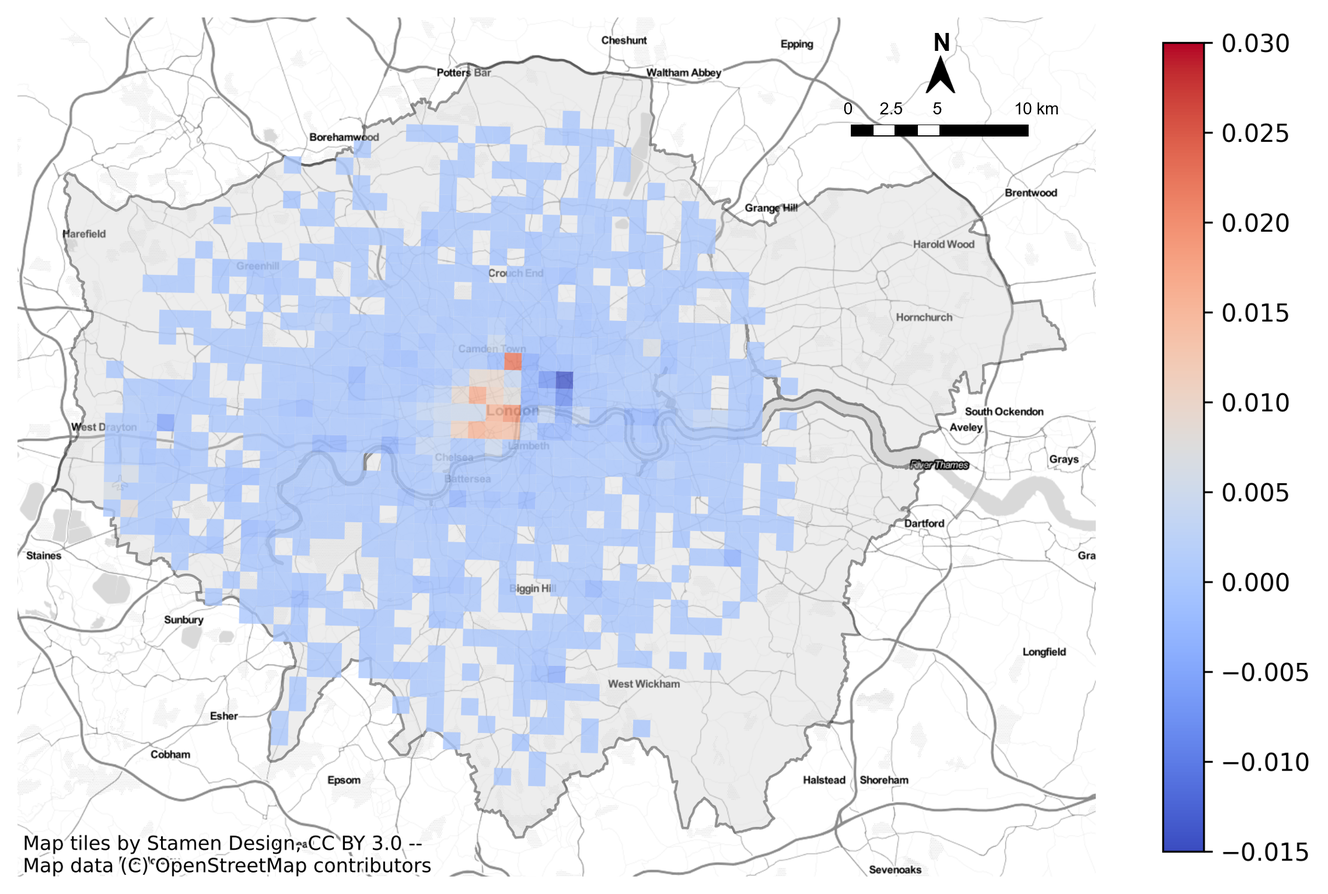
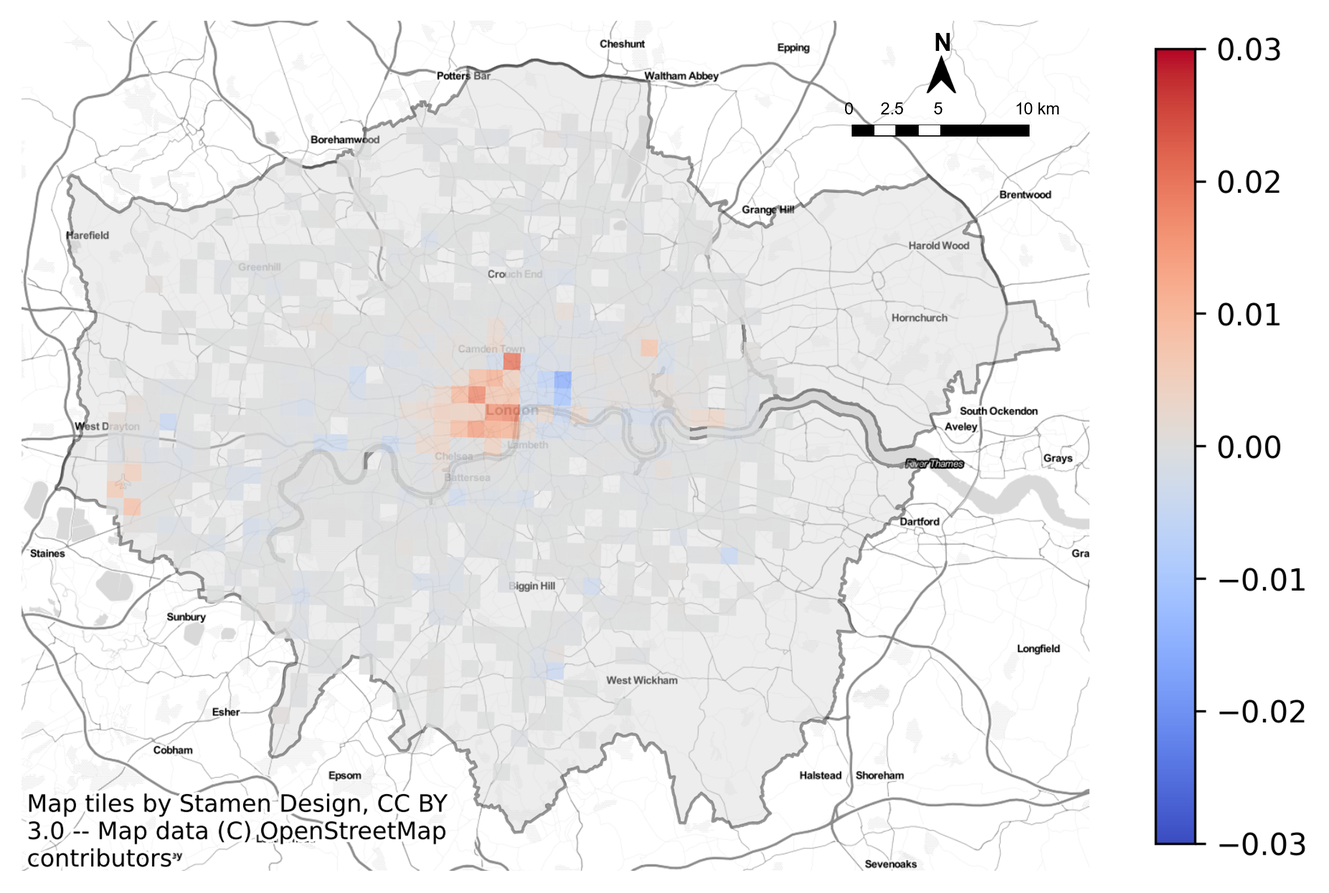
Updates from Overleaf

diff --git a/main.tex b/main.tex
@@ -55,6 +55,7 @@
 \newacronym{lbs}{LBS}{Location-based services}
 \newacronym{aoi}{AOI}{Areas of Interest}
 \newacronym{dbscan}{DBSCAN}{Density-Based Spatial Clustering of Applications with Noise}
+\newacronym{hdbscan}{HDBSCAN}{Hierarchical Density-Based Spatial Clustering of Applications with Noise}
 \newacronym{tfidf}{TF-IDF}{Term Frequency-Inverse Document Frequency}
 \newacronym{gps}{GPS}{Global Positioning System}
 \newacronym{kde}{KDE}{Kernel Density Estimation}
@@ -534,18 +535,18 @@ where $t_{i}$ represents the number of tourists' check-ins in the raster $i$, an
 
 % ====================== | Place Construction | ======================
 \subsubsection{Place Construction}
+A place is a segment of geographical space that holds meanings, and a check-in is a specific instance or event that represents an individual's interaction with a place. This study constructed places by clustering check-ins. The \acrfull{hdbscan} developed by \cite{campello_density-based_2013} was utilized as the clustering algorithm in this study. It is a hierarchical extension of \acrshort{dbscan} that automatically determines the optimal number of clusters and can handle clusters of varying densities. The features used in the clustering included the coordinates and categories of check-ins. The coordinates of check-ins were converted to EPSG:27700, a projected coordinate system for United Kingdom, and then standardized by the StandardScaler to unit variance. The categories of check-ins were converted into numerical values with the label encoding. The distance matrix was precomputed by the Gower distance before \acrshort{hdbscan}. The Gower distance is able to  measure the dissimilarity of two items with mixed numeric and non-numeric data. The feature importance was also considered in the distance matrix, with x and y coordinates weighting 0.8 in total, and categories weighting 0.2. In the application of \acrshort{hdbscan}, the minimum number of check-ins within the cluster was set as 3, meaning that one place should contain at least three check-ins. The \acrshort{hdbscan} labeled each check-in to assign it to the correponding cluster. Check-ins labeled as -1 were considered as outliers, which were removed in this study. The place should cover a certain area rather than merely a point. Thus with check-ins clustered as places, this study built convex hulls for these clusters to represent place areas.
 
-\underline{introduce dbscan}
+\underline{equations for hdbscan and gower distance}
 
-why cluster check-ins
-\underline{definition of place, which will be used to explain why places are clusters of check-ins instead of merely check-ins}
 
-\underline{refer to notes in logbooks!!!!}
 
 \underline{pseudocode}
 
-
-
+1. definition of place, which will be used to explain why places are clusters of check-ins instead of merely check-ins
+2. cluster check-ins with hdbscan
+3. construct the convex hull for check-ins within the same cluster to represent the place
+4. place dimensions: location (borough name), locale (category), sense of place (move on to the next section Topic Modeling)
 % Place Dimensions
 
 \underline{add a table of place dimensions, refer to table 6 in \cite{ferrero_mastermovelets_2020}}
@@ -661,15 +662,13 @@ https://www.tandfonline.com/doi/full/10.1080/15481603.2021.1908927}
 % ============================= || Spatiotemporal Patterns of Hotspots || =============================
 \subsection{Spatiotemporal Patterns of Hotspots}
 
-To investigate the popularity of different areas among both locals and tourists at various times, Foursquare check-ins were utilized to detect spatiotemporal hotspots. Figure~\ref{fig:foursquare_checkins_count} and Figure~\ref{fig:foursquare_checkins_trend} reveal the number and temporal pattern of check-ins. It was observed that locals exhibited higher activity levels compared to tourists, generating a greater number of check-ins throughout different time periods. Notably, daytime check-ins outnumbered nighttime check-ins. Analyzing the temporal pattern, locals displayed three prominent spikes in check-ins during the daytime, specifically at 8 am, 12 pm, and 6 pm. Conversely, their activity diminished during the nighttime, particularly at midnight. On the other hand, tourists were more active at 12 pm during the daytime but showed reduced activity after 6 pm. Furthermore, weekdays experienced a higher number of check-ins compared to weekends. Locals exhibited a consistent sharing pattern from Monday to Thursday, with a notable spike on Fridays. Conversely, during weekendss, locals shared significantly fewer check-ins. Tourists displayed a similar pattern from Monday to Thursday but exhibited increased activity on Fridays and Saturdays, followed by fewer check-ins on Sundays.
-
+To investigate the popularity of different areas among locals and tourists at various times, Foursquare check-ins were utilized to detect spatiotemporal hotspots. Figure~\ref{fig:foursquare_checkins_count} and Figure~\ref{fig:foursquare_checkins_trend} reveal the number and temporal pattern of check-ins. Locals exhibit higher activity levels compared to tourists, generating a greater number of check-ins throughout different time periods. Notably, daytime check-ins outnumber nighttime check-ins. Analyzing the temporal pattern, locals display three prominent spikes in check-ins during the daytime, specifically at 8 am, 12 pm, and 6 pm. Conversely, their activities diminish during the nighttime, particularly at midnight. On the other hand, tourists are more active at 12 pm during the daytime but show reduced activity after 6 pm. Furthermore, weekdays experience a higher number of check-ins compared to weekends. Locals exhibit a consistent sharing pattern from Monday to Thursday, with a notable spike on Fridays. Conversely, during weekends, locals share significantly fewer check-ins. Tourists display a similar pattern from Monday to Thursday but exhibit increased activities on Fridays and Saturdays, followed by fewer check-ins on Sundays.
 
 \begin{figure}[!h]
 \centering
 \includegraphics[width=0.75\textwidth]{figures/foursquare_checkins_count.png}
 \caption{\label{fig:foursquare_checkins_count}Number of Foursquare check-ins of locals and tourists across time spans.}
 \end{figure}
-
 
 \begin{figure}[!h]
 
@@ -694,7 +693,7 @@ To investigate the popularity of different areas among both locals and tourists 
 % ============== Daytime vs. Nighttime ==============
 \subsubsubsection{Daytime vs. Nighttime}
 % daytime
-Figure~\ref{fig:kde_daytime} illustrates the estimated distribution of Foursquare check-ins during the daytime using \acrshort{kde}. Despite generating fewer check-ins compared to locals, tourists exhibit similar hotspot distribution patterns. The city center, specifically the vicinity surrounding the junction of Westminster, Camden, and the City of London, emerges as a highly popular area among both locals and tourists. These boroughs contain an abundance of cultural and historical landmarks, including the Tower of London, Westminster Abbey, and St. Paul's Cathedral. Moreover, the high transport connectivity of these boroughs enhances their attractiveness. Major train stations, including Waterloo Station and King's Cross St. Pancras, provide convenient access to and from different areas of London. As a result, a significant number of individuals are drawn to these boroughs, leading to a substantial influx of people. Another notable hotspot is situated around Stratford in Newham borough, primarily due to the Stratford Shopping Centre, which appeals to individuals who enjoy shopping. Additionally, the southern region of Hillingdon, where Heathrow Airport is located, is another hotspot where people share a large number of check-ins. Furthermore, the boundary of Richmond upon Thames and Kingston upon Thames reveals an aggregation of check-ins, and these boroughs contain thriving communities with a blend of history and natural beauty. One notable difference between locals and tourists is the presence of work-related hotspots for locals. The City of London, in particular, serves as a major business hub, with numerous corporate headquarters attracting locals for employment purposes. Similarly, Canary Wharf, located near the Isle of Dogs within the Tower Hamlets borough, represents another hotspot for locals due to its status as part of London's central business district, drawing a large number of professionals. Moreover, boroughs located on the outskirts of London, such as Croydon, Merton, Bromley, Brent, and Harrow, form smaller yet noteworthy hotspots. These areas are characterized by their residential settlement and exhibit a greater concentration of locals compared to tourists.
+Figure~\ref{fig:kde_daytime} illustrates the estimated distribution of Foursquare check-ins during the daytime using \acrshort{kde}. Despite generating fewer check-ins compared to locals, tourists exhibit similar hotspot distribution patterns. The city center, specifically the vicinity surrounding the junction of Westminster, Camden, and the City of London, emerges as a highly popular area among both locals and tourists. These boroughs contain an abundance of cultural and historical landmarks, including the Tower of London, Westminster Abbey, and St. Paul's Cathedral. Moreover, the high transport connectivity of these boroughs enhances their attractiveness. Major train stations, including Waterloo Station and King's Cross St. Pancras, provide convenient access to and from different areas of London. As a result, a significant number of individuals are drawn to these boroughs, leading to a substantial influx of people. Another notable hotspot is situated around Stratford in Newham borough, where the Stratford Shopping Centre is located, which appeals to individuals who enjoy shopping. Additionally, the southern region of Hillingdon, where Heathrow Airport is located, is another hotspot where people share a large number of check-ins. Furthermore, the boundary of Richmond upon Thames and Kingston upon Thames reveals an aggregation of check-ins, and these boroughs contain thriving communities with a blend of history and natural beauty. One notable difference between locals and tourists is the presence of work-related hotspots for locals. The City of London, in particular, serves as a major business hub, with numerous corporate headquarters attracting locals for employment purposes. Similarly, Canary Wharf, located near the Isle of Dogs within the Tower Hamlets borough, represents another hotspot for locals due to its status as part of London's central business district, drawing a large number of professionals. Moreover, boroughs located on the outskirts of London, such as Croydon, Merton, Bromley, Brent, and Harrow, form smaller yet noteworthy hotspots. These areas are characterized by their residential settlement and exhibit a greater concentration of locals compared to tourists.
 
 
 \begin{figure}[!h]
@@ -714,7 +713,7 @@ Figure~\ref{fig:kde_daytime} illustrates the estimated distribution of Foursquar
 \end{figure}
 
 % nighttime & comparison
-The city center still serves as the primary hotspot for both locals and tourists during the nighttime, as shown in Figure~\ref{fig:kde_nighttime}. In addition to its cultural and historical attractions, the city center also offers abundant shopping and entertainment options, including renowned areas such as Oxford Street and Regent Street, which provide vibrant nightlife scenes. For locals, the concentration of check-ins in the city center during the nighttime is lower compared to daytime. Furthermore, the hotspot around Canary Wharf, a bustling business district, diminishes, indicating a reduced number of locals visiting this area during the nighttime. However, the hotspots in Heathrow Airport and boroughs on the outskirts of London, such as Croydon, Bromley, and Harrow, remain prominent. This suggests that these areas are aggregated with a significant number of locals, possibly due to air transport activities ad residential settlements. In terms of locals, although the primary hotspot remains in the city center, the concentration of check-ins in this area decreases during the nighttime. Moreover, there is a reduction or disappearance of hotspots in the suburban areas, indicating a decrease in the number of tourists visiting these regions during the nighttime. However, the hotspot around Heathrow Airport remains stable, suggesting that a certain number of tourists still visit the airport during the nighttime.
+During the nighttime, the city center still serves as the primary hotspot for both locals and tourists, as shown in Figure~\ref{fig:kde_nighttime}. In addition to its cultural and historical attractions, the city center also offers abundant shopping and entertainment options, including renowned areas such as Oxford Street and Regent Street, which provide vibrant nightlife scenes. For locals, the concentration of check-ins in the city center during the nighttime is lower compared to the daytime. Furthermore, the hotspot around Canary Wharf, a bustling business district, diminishes, indicating a reduced number of locals visiting this area during the nighttime. However, the hotspots in Heathrow Airport and boroughs on the outskirts of London, such as Croydon, Bromley, and Harrow, remain prominent. This suggests that these areas are aggregated with a significant number of locals, possibly due to air transport activities ad residential settlements. In terms of locals, although the primary hotspot remains in the city center, the concentration of check-ins in this area decreases during the nighttime. Moreover, there is a reduction or disappearance of hotspots in the suburban areas, indicating a decrease in the number of tourists visiting these regions during the nighttime. However, the hotspot around Heathrow Airport remains stable, suggesting that a certain number of tourists still visit the airport during the nighttime.
 
 
 \begin{figure}[!h]
@@ -737,7 +736,7 @@ The city center still serves as the primary hotspot for both locals and tourists
 % ============== Weekday vs. Weekend ==============
 \subsubsubsection{Weekday vs. Weekend}
 % weekday
-Figure~\ref{fig:kde_weekday} reveals that both locals and tourists have distinct primary hotspots in the city center during weekdays, though with differences in their spatial distribution. These two hotspots encompass the area surrounding the junction of Westminster, Camden, and the City of London, but locals exhibit a distinct concentration in the eastern part, with a notable emphasis on the City of London. The City of London serves as a prominent financial district. And the presence of iconic structures such as 30 St Mary Axe and Canary Wharf further reinforces the City of London's status as an important hub for corporate offices, attracting individuals for weekday work engagements. Consistent with the hotspot distribution observed during the daytime, locals also visit Heathrow Airport in the southern region of Hillingdon and various outskirt boroughs such as Croydon, Merton, Bromley, Harrow, Richmond upon Thames, and Kingston upon Thames. In contrast, tourists' primary hotspot in the city center gravitates towards the vicinity of Westminster and Camden, which contain numerous tourist attractions, shopping destinations, and entertainment venues. Notably, tourists are less active in the outer regions of London, indicating a relatively lower level of engagement in these areas. Among the outskirt boroughs, Hillingdon, where Heathrow Airport is located, gains more popularity among tourists compared to other areas.
+Figure~\ref{fig:kde_weekday} illustrates the distinct primary hotspots of locals and tourists in the city center during weekdays, though with differences in their spatial distribution. Both groups continue to gravitate towards the area surrounding the junction of Westminster, Camden, and the City of London. However, locals exhibit a relatively lower concentration of check-ins in this area compared to tourists. The City of London, with its prominent financial district and iconic structures such as 30 St Mary Axe and Canary Wharf, serves as an important hub for weekday work engagements, attracting locals to this area. Consistent with the hotspot distribution observed during the daytime, locals also visit Heathrow Airport in the southern region of Hillingdon and various outskirt boroughs such as Croydon, Merton, Bromley, Harrow, Richmond upon Thames, and Kingston upon Thames. In contrast, tourists' primary hotspot in the city center gravitates towards the vicinity of Westminster and Camden during weekdays. These areas contain numerous tourist attractions, shopping destinations, and entertainment venues, making them highly appealing to tourists. Notably, tourists are less active in the outer regions of London during weekdays, indicating a relatively lower level of engagement in these areas. Among the outskirt boroughs, Hillingdon, where Heathrow Airport is located, gains more popularity among tourists compared to other areas.
 
 
 \begin{figure}[!h]
@@ -757,8 +756,7 @@ Figure~\ref{fig:kde_weekday} reveals that both locals and tourists have distinct
 \end{figure}
 
 % weekend & comparison
-Figure~\ref{fig:kde_weekend} shows the estimated distribution of Foursquare check-ins made by locals and tourists during weekends. The city center continues to serve as the primary hotspot for both groups. However, the concentration of check-ins by locals in this area is relatively lower compared to tourists. Additionally, hotspots around Stratford in Newham and Heathrow Airport in Hillingdon are evident for both locals and tourists. during weekends, locals display a scattered pattern across the outskirts of London, with a decrease in activity density within the city center. Conversely, tourists share fewer check-ins in the outer boroughs and are more concentrated in the city center. In comparison to the weekday hotspots, both locals and tourists share fewer check-ins during weekends. Locals demonstrate greater activity in the outskirt boroughs, while tourists tend to concentrate their activities within the inner part of London.
-
+During weekends, Figure~\ref{fig:kde_weekend} also shows the scattered pattern of check-ins by locals across the outskirts of London, with a decrease in activity density within the city center. Conversely, tourists concentrate their activities within the inner part of London, sharing fewer check-ins in the outer boroughs. Compared to the weekday hotspots, both locals and tourists exhibit a decrease in check-in density during weekends. Locals demonstrate greater activity in the outskirt boroughs, while tourists focus their attention on the city center.
 
 \begin{figure}[!h]
 
@@ -783,12 +781,10 @@ Figure~\ref{fig:kde_weekend} shows the estimated distribution of Foursquare chec
 % ============== Daytime vs. Nighttime ==============
 \subsubsubsection{Daytime vs. Nighttime}
 % daytime
-The difference ratio quantifies the mixture degree of locals and tourists within each raster. A higher difference ratio indicates a higher proportion of tourists, while a lower difference ratio suggests a higher concentration of locals. Figure~\ref{fig:raster_diff_daytime} illustrates the difference ratios between locals and tourists during the daytime. Most areas receive similar popularity from locals and tourists, but the city center demonstrates distinct distribution patterns of these two groups of people. Tourists tend to cluster around Westminster, Camden, and the City of London, while locals are more concentrated in the eastern region. These findings align with the observations in Section \ref{hotspots}. Heathrow Airport also emerges as a hotspot with a higher activity density of tourists, as reflected by the positive difference ratios in certain rasters. The category distribution of check-ins within rasters with significant difference ratios (greater than 0.01 or less than -0.01) during the daytime is represented in Figure~\ref{fig:diff_pop_category_daytime}. Tourists demonstrate a preference for restaurants, transportation, and shopping places, while locals show a higher inclination towards professional places, restaurants, and entertainment places. For more detailed information, refer to Table~\ref{tab:popular_venues_touristspop_daytime} and Table~\ref{tab:popular_venues_localspop_daytime} in Appendix \ref{appendix}, which highlight the top 10 popular venues within rasters wit notable difference ratios during the daytime. In areas with a higher density of tourists, notable venues include transportation hubs like London King's Cross Railway Station, luxury department stores like Harrods, and prominent public squares such as Picadilly Circus and Trafalgar Square. Conversely, in areas with a higher density of locals, professional venues like Google Campus - London and other companies, as well as restaurants around Shoreditch, are more popular.
+The difference ratio provides a measure of the composition of locals and tourists within each raster. A higher difference ratio indicates a larger proportion of tourists, while a lower difference ratio suggests a higher concentration of locals. Figure~\ref{fig:raster_diff_daytime} illustrates the difference ratios between locals and tourists during the daytime. While most areas receive similar popularity from both groups, the city center exhibits distinct distribution patterns for locals and tourists. Tourists tend to cluster around Westminster, Camden, and the City of London, while locals are more concentrated in the eastern region. These findings align with the observations in Section \ref{hotspots}. Heathrow Airport also emerges as a hotspot with a higher activity density of tourists, as reflected by positive difference ratios in certain rasters. The category distribution of check-ins within rasters with significant difference ratios (greater than 0.01 or less than -0.01) during the daytime is represented in Figure~\ref{fig:diff_pop_category_daytime}. Tourists demonstrate a preference for restaurants, transportation, and shopping places, while locals show a higher inclination towards professional places, restaurants, and entertainment places. For more detailed information, please refer to Table~\ref{tab:popular_venues_touristspop_daytime} and Table~\ref{tab:popular_venues_localspop_daytime} in Appendix \ref{appendix}, which highlight the top 10 popular venues within rasters with notable difference ratios during the daytime. In areas with a higher density of tourists, notable venues include transportation hubs like London King's Cross Railway Station, luxury department stores like Harrods, and prominent public squares such as Picadilly Circus and Trafalgar Square. Conversely, in areas with a higher density of locals, professional venues like Google Campus - London and other companies, as well as restaurants around Shoreditch, are more popular.
 
 % nighttime & comparison
-Figure~\ref{fig:raster_diff_nighttime} represents the difference ratios between locals and tourists during the nighttime. The city center, especially Westminster, becomes increasingly popular among tourists, while the area around the City of London shows a balanced number of locals and tourists, indicating reduced activities of locals during the nighttime. Table~\ref{tab:diff_pop_category_nighttime} reveals that tourists exhibit a heightened interest in entertainment places during the nighttime, while maintaining their preference for restaurants and transportation. Locals, on the other hand, shift their focus from professional places to entertainment places and still show interest in restaurants. Notably, popular nighttime venues for both locals and tourists include nightclubs and pubs, alongside transportation hubs (refer to Table~\ref{tab:popular_venues_touristspop_nighttime} and Table~\ref{tab:popular_venues_localspop_nighttime}).
-
-
+Moving to the nighttime, Figure~\ref{fig:raster_diff_nighttime} displays the difference ratios between locals and tourists. The city center, especially Westminster, becomes increasingly popular among tourists, while the area around the City of London shows a balanced presence of locals and tourists, indicating reduced activities of locals during the nighttime. Table~\ref{tab:diff_pop_category_nighttime} reveals that tourists exhibit a heightened interest in entertainment places during the nighttime while maintaining their preference for restaurants and transportation. Locals, on the other hand, shift their focus from professional places to entertainment places while still showing interest in restaurants. Notably, popular nighttime venues for both locals and tourists include nightclubs and pubs, alongside transportation hubs (Table~\ref{tab:popular_venues_touristspop_nighttime}, Table~\ref{tab:popular_venues_localspop_nighttime}).
 
 
 \begin{figure}[!h]
@@ -828,6 +824,13 @@ Figure~\ref{fig:raster_diff_nighttime} represents the difference ratios between 
 
 % ============== Weekday vs. Weekend ==============
 \subsubsubsection{Weekday vs. Weekend}
+% weekday
+In Figure~\ref{fig:raster_diff_weekday}, the difference ratio between locals and tourists during weekdays highlights distinct distribution patterns in the city center. As discussed in previous sections, tourists concentrate their activities in Westminster and Camden, while locals exhibit a higher activity density towards the east, particularly around the City of London, a prominent business district. The category distribution of check-ins in rasters with significant difference ratios, predominantly located in the city center, is depicted in Figure~\ref{fig:diff_pop_category_weekday}. Tourists display a preference for transportation, restaurants, professional places, entertainment places, and shopping places, with transportation hubs, public squares, and luxury department stores ranking among their frequently visited venues (Table~\ref{tab:popular_venues_touristspop_weekday}). Similarly, locals also tend to visit professional places, restaurants, transportation, and entertainment places. Popular venues for locals include transportation hubs, technology and financial companies, as well as coffee shops in the vicinity of Shoreditch (Table~\ref{tab:popular_venues_localspop_weekday}).
+
+
+% weekend & comparison
+Moving on to weekends, Figure~\ref{fig:raster_diff_weekend} shows higher difference ratios in the tourist hotspot in the city center, indicating a greater concentration of tourists compared to weekdays. The hotspot of locals in the City of London shows a reduced proportion, suggesting a decrease in local visits to this area during weekends. Figure~\ref{fig:diff_pop_category_weekend} represents the category distribution of check-ins within rasters exhibiting significant difference ratios. Despite a continued presence of tourists in restaurants, transportation, and entertainment places during weekends, their interest in professional places decreases, while interest in shopping places rises. Similarly, locals show reduced visits to professional places but exhibit an inclination towards entertainment places and restaurants in the city center. Regarding popular venues, tourists maintain consistent preferences between weekdays and weekends, while locals shift towards more frequent visits to restaurants, coffee shops, and bars during weekends, rather than company establishments.
+
 
 
 \begin{figure}[!h]
